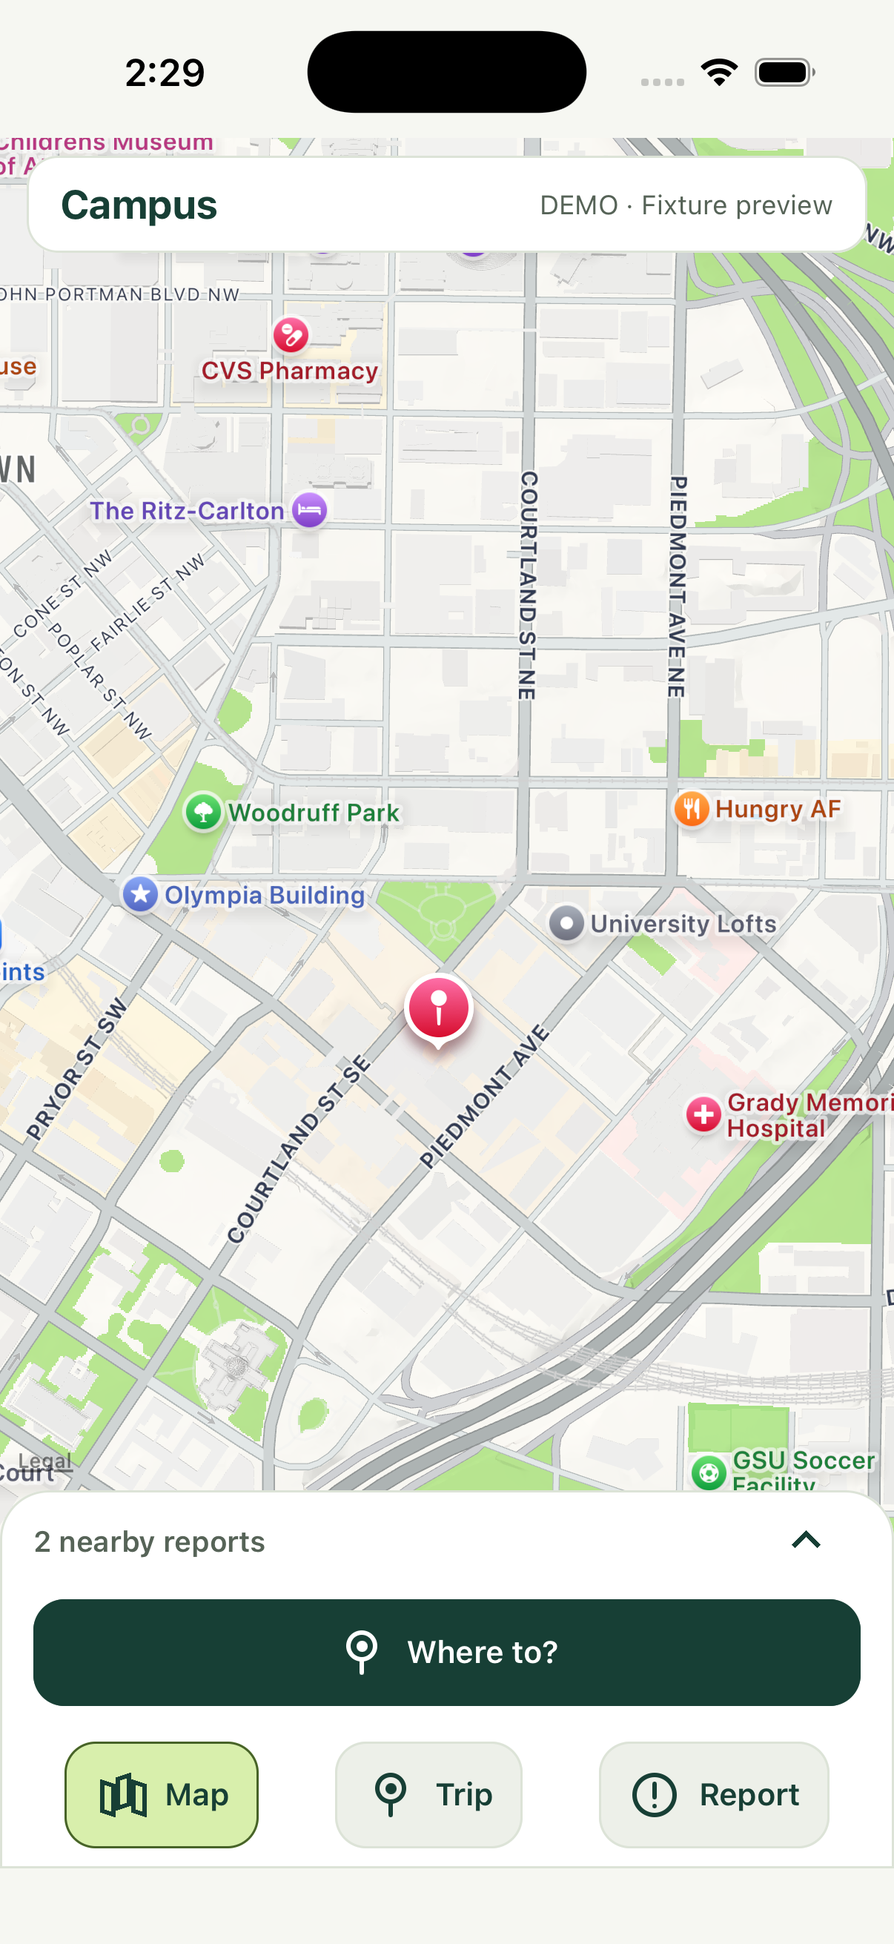
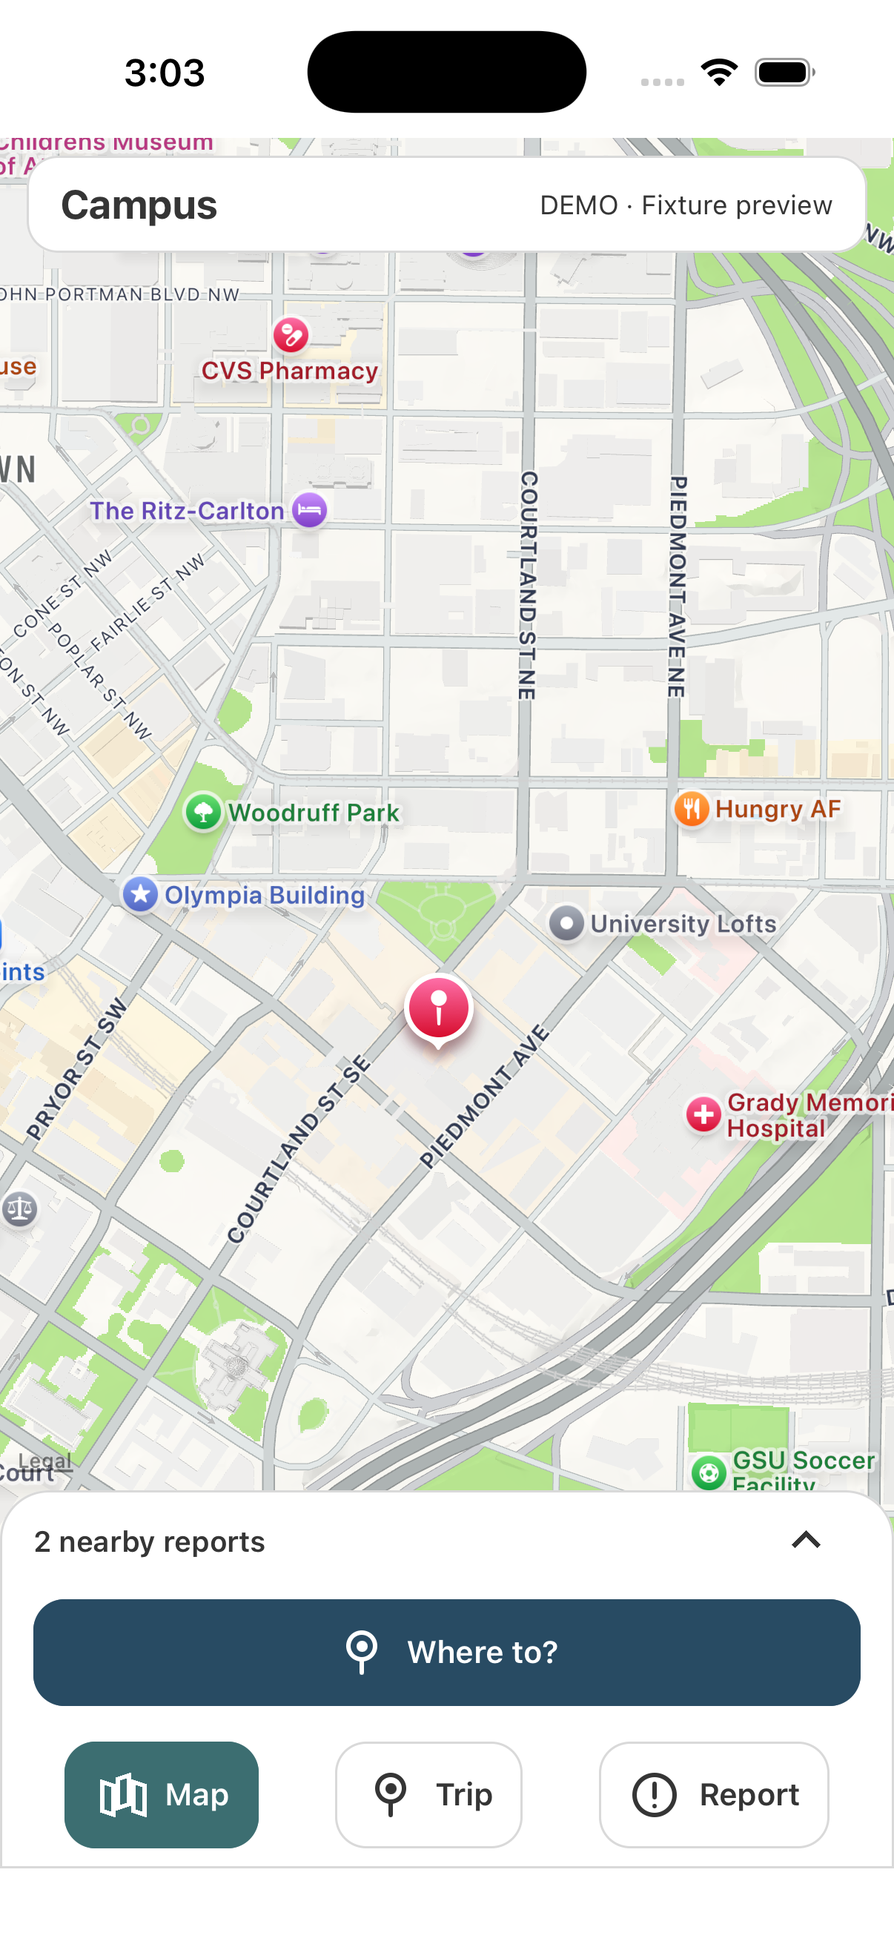
Apply silver and cyan palette with light and dark appearance

diff --git a/mobile/App.tsx b/mobile/App.tsx
@@ -1,8 +1,8 @@
 import React, { useEffect, useRef, useState } from 'react';
-import { AppState, SafeAreaView, ScrollView, View, Text, TextInput, StyleSheet, Pressable, KeyboardAvoidingView, Platform } from 'react-native';
+import { AppState, SafeAreaView, ScrollView, View, Text, TextInput, StyleSheet, Pressable, KeyboardAvoidingView, Platform, StatusBar, useColorScheme } from 'react-native';
 import { ActionButton as Button } from './src/ui/ActionButton';
 import { Icon } from './src/ui/Icon';
-import { theme } from './src/ui/theme';
+import { useTheme, type Theme } from './src/ui/theme';
 import MapView, { Marker, Polygon, Polyline, Region } from 'react-native-maps';
 import * as Crypto from 'expo-crypto';
 import AsyncStorage from '@react-native-async-storage/async-storage';
@@ -14,7 +14,7 @@ import { createReportQueue, freezeReport, Submission } from './src/reports/queue
 import { createHazardRefresh } from './src/api/hazardRefresh';
 import { apiUrl, fixtureMode, getHazards, getHealth, getRoutes, submitReport, HazardCollection, Health, Report } from './src/api/client';
 import { createRouteComparison, presentRoutes, RouteState } from './src/routes/model';
-import { ROUTE_COLORS, RouteScreen, Target } from './src/routes/RouteScreen';
+import { routeColors, RouteScreen, Target } from './src/routes/RouteScreen';
 
 const center = { latitude: 33.7531, longitude: -84.3853, latitudeDelta: 0.012, longitudeDelta: 0.012 };
 const toPoint = ([longitude, latitude]: number[]) => ({ latitude, longitude });
@@ -26,6 +26,10 @@ const bounds = (r: Region) => {
     wide ? 180 : clamp(r.longitude+r.longitudeDelta/2, 180), clamp(r.latitude+r.latitudeDelta/2, 90)].join(',');
 };
 export default function App() {
+  const colorScheme = useColorScheme();
+  const theme = useTheme();
+  const styles = createStyles(theme);
+  const ROUTE_COLORS = routeColors(theme);
   const [screen, setScreen] = useState<'map'|'report'|'route'>('map');
   const [expanded, setExpanded] = useState(false);
   const [dockHeight, setDockHeight] = useState(220);
@@ -134,8 +138,9 @@ export default function App() {
   const latestSubmission = submissions[submissions.length - 1];
   const pendingCount = submissions.filter(sub => sub.state !== 'submitted').length;
   return <SafeAreaView style={styles.page}>
+    <StatusBar barStyle={colorScheme === 'dark' ? 'light-content' : 'dark-content'} />
     <KeyboardAvoidingView style={styles.canvas} behavior={Platform.OS === 'ios' ? 'padding' : undefined}>
-    <MapView style={styles.map} initialRegion={center} legalLabelInsets={{ top: 0, left: 8, right: 8, bottom: dockHeight + 8 }} onRegionChangeComplete={changeRegion}
+    <MapView userInterfaceStyle={colorScheme === 'dark' ? 'dark' : 'light'} style={styles.map} initialRegion={center} legalLabelInsets={{ top: 0, left: 8, right: 8, bottom: dockHeight + 8 }} onRegionChangeComplete={changeRegion}
       onPress={e => { if (screen === 'report') setPin(e.nativeEvent.coordinate); else if (screen === 'route') placeRouteEndpoint(e.nativeEvent.coordinate); }}>
       {visible.map(h => <Polygon key={h.properties.id} coordinates={h.geometry.coordinates[0].map(toPoint)}
         holes={h.geometry.coordinates.slice(1).map(r => r.map(toPoint))}
@@ -147,6 +152,7 @@ export default function App() {
         pinColor="blue" title="Pending report (not yet accepted)" description={sub.body.kind} />)}
       {screen === 'report' && <Marker coordinate={pin} draggable title="Report location"
         onDragEnd={e => setPin(e.nativeEvent.coordinate)} />}
+      {colorScheme === 'dark' && screen === 'route' && presented?.lowerRisk && <Polyline coordinates={presented.lowerRisk.coordinates.map(toPoint)} strokeWidth={10} strokeColor={theme.line} />}
       {screen === 'route' && presented?.lowerRisk && <Polyline coordinates={presented.lowerRisk.coordinates.map(toPoint)} strokeWidth={6} strokeColor={ROUTE_COLORS.safest} />}
       {screen === 'route' && presented && <Polyline coordinates={presented.shortest.coordinates.map(toPoint)} strokeWidth={4} strokeColor={ROUTE_COLORS.shortest} lineDashPattern={presented.lowerRisk ? [10, 8] : undefined} />}
       {screen === 'route' && routeState.origin && <Marker coordinate={{ latitude: routeState.origin.lat, longitude: routeState.origin.lon }} pinColor="green" draggable
@@ -190,9 +196,9 @@ export default function App() {
         <View style={styles.categories}>{(['pothole','obstruction','closure','other'] as const).map(k => <Pressable key={k}
           accessibilityRole="button" accessibilityLabel={k} accessibilityState={{ selected: k === kind }} onPress={() => setKind(k)}
           style={[styles.category, k === kind && styles.categorySelected]}>
-          <Icon name={k} /><Text style={styles.categoryLabel}>{k[0].toUpperCase() + k.slice(1)}</Text>
+          <Icon name={k} color={k === kind ? theme.inverse : theme.ink} /><Text style={[styles.categoryLabel, k === kind && styles.categoryLabelSelected]}>{k[0].toUpperCase() + k.slice(1)}</Text>
         </Pressable>)}</View>
-        {expanded && <TextInput accessibilityLabel="Optional report description" style={styles.input} value={description} onChangeText={setDescription} maxLength={280} placeholder="Description (optional)" />}
+        {expanded && <TextInput accessibilityLabel="Optional report description" style={styles.input} value={description} onChangeText={setDescription} maxLength={280} placeholderTextColor={theme.muted} placeholder="Description (optional)" />}
 
         <Button primary title={submitting ? 'Saving report…' : 'Submit report'} disabled={fixtureMode || submitting} onPress={() => void send()} />
         {!expanded && latestSubmission && <Text accessibilityLiveRegion="polite" style={latestSubmission.state === 'failed' ? styles.error : styles.caption}>
@@ -200,7 +206,7 @@ export default function App() {
         </Text>}
         {expanded && submissions.map(sub => <View key={sub.id} style={styles.card}>
           <Text style={styles.heading}>{sub.body.kind} · {sub.state === 'queued' ? 'queued (pending, not accepted)' : sub.state}</Text>
-          <Text>Observed {new Date(sub.body.observed_at).toLocaleString()}{sub.attempts ? ` · attempts ${sub.attempts}` : ''}</Text>
+          <Text style={styles.caption}>Observed {new Date(sub.body.observed_at).toLocaleString()}{sub.attempts ? ` · attempts ${sub.attempts}` : ''}</Text>
           {!!sub.error && <Text style={styles.error}>{sub.error}{sub.retryable ? '' : '\nThe server rejected this report; dismiss it and submit a corrected one.'}</Text>}
           {sub.state === 'failed' && sub.retryable && <Button title="Retry original report" onPress={() => void queue.retry(sub.id)} />}
           {(sub.state === 'submitted' || (sub.state === 'failed' && !sub.retryable)) && <Button title="Dismiss" onPress={() => void queue.dismiss(sub.id)} />}
@@ -220,7 +226,7 @@ export default function App() {
     </KeyboardAvoidingView>
   </SafeAreaView>;
 }
-const styles = StyleSheet.create({
+const createStyles = (theme: Theme) => StyleSheet.create({
   page: { flex: 1, backgroundColor: theme.canvas }, canvas: { flex: 1 },
   map: { position: 'absolute', top: 0, right: 0, bottom: 0, left: 0 },
   overlay: { flex: 1, paddingTop: 8 },
@@ -242,12 +248,13 @@ const styles = StyleSheet.create({
   category: { flex: 1, alignItems: 'center', justifyContent: 'center', gap: 6, minHeight: 64, paddingVertical: 8, borderWidth: 1, borderColor: theme.line, borderRadius: theme.radius },
   categorySelected: { backgroundColor: theme.selected, borderColor: theme.selectedEdge },
   categoryLabel: { fontSize: 11, color: theme.ink, textAlign: 'center' },
+  categoryLabelSelected: { color: theme.inverse },
   content: { flexShrink: 1 }, contentInner: { paddingBottom: 8 },
   caption: { fontSize: 12, lineHeight: 18, color: theme.muted },
   source: { color: theme.selectedEdge, fontSize: 12, fontWeight: '600' },
   card: { paddingVertical: 10, borderBottomWidth: 1, borderColor: theme.line },
   heading: { fontSize: 16, fontWeight: '600', color: theme.ink, marginVertical: 4 },
-  input: { backgroundColor: theme.surface, borderWidth: 1, borderColor: theme.line, borderRadius: theme.radius,
+  input: { color: theme.ink, backgroundColor: theme.surface, borderWidth: 1, borderColor: theme.line, borderRadius: theme.radius,
     padding: 12, marginVertical: 8, minHeight: theme.touch },
   error: { color: theme.danger, marginVertical: 8 },
 });

diff --git a/mobile/src/routes/RouteScreen.tsx b/mobile/src/routes/RouteScreen.tsx
@@ -1,16 +1,18 @@
 import React from 'react';
 import { StyleSheet, Text, View } from 'react-native';
 import { ActionButton as Button } from '../ui/ActionButton';
-import { theme } from '../ui/theme';
+import { useTheme, type Theme } from '../ui/theme';
 import { canRequest, presentRoutes, type Point, type RouteLine, type RouteState } from './model';
 
 export type Target = 'origin' | 'destination';
-export const ROUTE_COLORS = { shortest: '#5f5f5f', safest: '#005f73' } as const;
+export const routeColors = (theme: Theme) => ({ shortest: theme.routeShortest, safest: theme.routeLowerRisk });
 const where = (p: Point | null) => (p ? `${p.lat.toFixed(5)}, ${p.lon.toFixed(5)}` : 'not set');
 
 function RouteCard({ line, expanded }: { line: RouteLine; expanded: boolean }) {
+  const theme = useTheme();
+  const styles = createStyles(theme);
   return <View style={styles.card} accessible accessibilityLabel={`${line.label}: ${line.duration}, ${line.distance}, ${line.hazardCount} reported hazards, ${line.risk}`}>
-    <View style={styles.legend}><View style={[styles.swatch, { backgroundColor: ROUTE_COLORS[line.kind] }]} /><Text style={styles.label}>{line.label}</Text></View>
+    <View style={styles.legend}><View style={[styles.swatch, { backgroundColor: line.kind === 'shortest' ? theme.routeShortest : theme.routeLowerRisk }]} /><Text style={styles.label}>{line.label}</Text></View>
     <Text style={styles.metrics}>{line.duration}</Text>
     <Text style={styles.fine}>{line.distance} · {line.hazardCount} reports</Text>
     {expanded && <Text style={styles.fine}>{line.risk}</Text>}
@@ -22,6 +24,8 @@ export function RouteScreen(props: {
   onTarget(target: Target): void; onUseLocation(): void; onCompare(): void;
   onSwap(): void; onClear(): void;
 }) {
+  const theme = useTheme();
+  const styles = createStyles(theme);
   const { state, target, expanded } = props;
   const presented = state.result ? presentRoutes(state.result) : null;
   const ready = canRequest(state);
@@ -65,7 +69,7 @@ export function RouteScreen(props: {
   </>;
 }
 
-const styles = StyleSheet.create({
+const createStyles = (theme: Theme) => StyleSheet.create({
   row: { flexDirection: 'row', flexWrap: 'wrap', gap: 8, justifyContent: 'space-between' },
   card: { flex: 1, minWidth: 120, padding: 10, borderRadius: theme.radius, borderWidth: 1, borderColor: theme.line, marginVertical: 4 },
   legend: { flexDirection: 'row', alignItems: 'center', gap: 5 },

diff --git a/mobile/src/ui/ActionButton.tsx b/mobile/src/ui/ActionButton.tsx
@@ -1,7 +1,7 @@
 import React from 'react';
 import { Pressable, StyleSheet, Text } from 'react-native';
 import { Icon, IconName } from './Icon';
-import { theme } from './theme';
+import { useTheme, type Theme } from './theme';
 
 /** Shared concept control; uses native primitives and adds no runtime dependency. */
 export function ActionButton({ title, onPress, disabled = false, primary = false, selected = false, icon }: {
@@ -12,19 +12,21 @@ export function ActionButton({ title, onPress, disabled = false, primary = false
   selected?: boolean;
   icon?: IconName;
 }) {
+  const theme = useTheme();
+  const styles = createStyles(theme);
   return <Pressable accessibilityRole="button" accessibilityLabel={title}
     accessibilityState={{ disabled, selected }} disabled={disabled} onPress={onPress}
     style={({ pressed }) => [styles.button, primary && styles.primary,
       selected && styles.selected, disabled && styles.disabled, pressed && styles.pressed]}>
-    {icon && <Icon name={icon} color={primary ? theme.inverse : theme.ink} />}
-    <Text style={[styles.label, primary && styles.primaryLabel]}>{title}</Text>
+    {icon && <Icon name={icon} color={primary || selected ? theme.inverse : theme.ink} />}
+    <Text style={[styles.label, (primary || selected) && styles.primaryLabel]}>{title}</Text>
   </Pressable>;
 }
 
-const styles = StyleSheet.create({
+const createStyles = (theme: Theme) => StyleSheet.create({
   button: { minHeight: theme.touch, flexDirection: 'row', gap: 8, justifyContent: 'center', alignItems: 'center', paddingHorizontal: 12,
     paddingVertical: 10, borderRadius: theme.radius, backgroundColor: theme.quiet, marginVertical: 4, flexShrink: 1, borderWidth: 1, borderColor: theme.line },
-  primary: { backgroundColor: theme.primary, borderColor: theme.primary },
+  primary: { backgroundColor: theme.primary, borderColor: theme.primaryEdge },
   selected: { backgroundColor: theme.selected, borderColor: theme.selectedEdge },
   label: { color: theme.ink, fontSize: 14, fontWeight: '600', textAlign: 'center' },
   primaryLabel: { color: theme.inverse },

diff --git a/mobile/src/ui/theme.ts b/mobile/src/ui/theme.ts
@@ -1,7 +1,27 @@
-/** Mobile roles; the web reference supplies principles, not its palette or density. */
-export const theme = {
-  ink: '#173f35', muted: '#566357', surface: '#ffffff', canvas: '#f6f7f2',
-  quiet: '#edf0e9', line: '#dce3d7', selected: '#d8efac', selectedEdge: '#476328',
-  primary: '#173f35', inverse: '#ffffff', warning: '#765000', danger: '#a00020',
-  radius: 14, touch: 48,
+import { useColorScheme } from 'react-native';
+
+/** Operator palette: coolors.co/palette/353535-3c6e71-ffffff-d9d9d9-284b63 */
+export const palette = {
+  charcoal: '#353535', cyan: '#3c6e71', white: '#ffffff', silver: '#d9d9d9', blue: '#284b63',
 } as const;
+
+const light = {
+  ink: palette.charcoal as string, muted: palette.charcoal as string,
+  surface: palette.white as string, canvas: palette.white as string,
+  quiet: palette.white as string, line: palette.silver as string,
+  selected: palette.cyan as string, selectedEdge: palette.cyan as string,
+  primary: palette.blue as string, primaryEdge: palette.blue as string,
+  inverse: palette.white as string, warning: palette.blue as string, danger: '#a00020',
+  routeShortest: palette.charcoal as string, routeLowerRisk: palette.cyan as string,
+  radius: 14, touch: 48,
+};
+export type Theme = typeof light;
+const dark: Theme = {
+  ...light, ink: palette.white, muted: palette.silver, surface: palette.charcoal,
+  canvas: palette.charcoal, quiet: palette.charcoal, line: palette.silver,
+  selectedEdge: palette.silver, primaryEdge: palette.silver,
+  warning: palette.silver, danger: '#ffb4ab', routeShortest: palette.silver,
+};
+export function useTheme(): Theme {
+  return useColorScheme() === 'dark' ? dark : light;
+}

diff --git a/mobile/src/ui/Icon.tsx b/mobile/src/ui/Icon.tsx
@@ -1,11 +1,13 @@
 import React from 'react';
 import { View } from 'react-native';
-import { theme } from './theme';
+import { useTheme } from './theme';
 
 export type IconName = 'map' | 'route' | 'report' | 'pin' | 'expand' | 'collapse' | 'locate' | 'pothole' | 'obstruction' | 'closure' | 'other';
 
 /** One native, dependency-free icon dialect. Labels belong to the containing control. */
-export function Icon({ name, color = theme.ink }: { name: IconName; color?: string }) {
+export function Icon({ name, color: suppliedColor }: { name: IconName; color?: string }) {
+  const theme = useTheme();
+  const color = suppliedColor ?? theme.ink;
   const line = { position: 'absolute' as const, backgroundColor: color, borderRadius: 1 };
   const ring = { position: 'absolute' as const, borderColor: color, borderWidth: 2 };
   return <View accessible={false} importantForAccessibility="no-hide-descendants" style={{ width: 24, height: 24 }}>

diff --git a/mobile/docs/UI-GUIDE.md b/mobile/docs/UI-GUIDE.md
@@ -18,8 +18,8 @@ in expanded details; fixture warnings, failures and delivery states remain expli
 
 ## Shared primitives
 
-- `src/ui/theme.ts` owns mobile color roles and shared geometry. Preserve the app's green
-  identity; do not import the web reference's colors or theme.
+- `src/ui/theme.ts` owns the operator's silver/cyan-blue palette, light/dark roles and shared
+  geometry. Do not import the web reference's colors or theme.
 - `src/ui/Icon.tsx` owns the dependency-free native pictograms. Map means explore, pin means
   endpoint/trip, circled exclamation means report, chevrons mean expand/collapse, and a
   crosshair means foreground location. Hazard categories have their own labeled pictograms.
@@ -29,6 +29,27 @@ in expanded details; fixture warnings, failures and delivery states remain expli
   and expanded state. Decorative geometry is hidden from accessibility.
 - Ordinary controls have at least 48-point height. The disclosure target is 48 by 44 points.
   Do not copy the web guide's 24-point targets or 8–11px body typography.
+
+## Light and dark color roles
+
+Source: [selected Coolors palette](https://coolors.co/palette/353535-3c6e71-ffffff-d9d9d9-284b63).
+See [decision 012](../../docs/decisions/012-silver-cyan-mobile-palette.md).
+
+| Color | Role |
+| --- | --- |
+| `#353535` charcoal | Light-mode text; dark-mode surfaces |
+| `#3c6e71` teal/cyan | Selected controls and lower-risk route accent |
+| `#ffffff` white | Light surfaces; selected/primary and dark-mode foreground |
+| `#d9d9d9` metallic silver | Dividers, dark-mode outlines and secondary foreground |
+| `#284b63` deep blue | Primary action and light-mode notices |
+
+Device appearance selects light or dark UI. Silver is flat and restrained; no metallic texture
+or gradient is required. Selected controls retain accessible selected state and short labels.
+White on cyan is 5.74:1; white on blue 9.22:1; charcoal on white 12.27:1; silver on charcoal
+8.69:1. These are computed solid-color text pairs, not a full accessibility certification.
+Error foregrounds remain red exceptions (`#a00020` light / `#ffb4ab` dark). Existing hazard
+source colors stay separate from brand accents. Dark route lines use silver for the baseline
+and a silver casing behind cyan to preserve visibility; OSM styling remains separate work.
 
 ## State vocabulary
 

diff --git a/mobile/docs/screenshots/README.md b/mobile/docs/screenshots/README.md
@@ -1,19 +1,23 @@
 # UI concept screenshots
 
-Captured 2026-10-10 from the actual React Native app on iPhone 17 Pro / iOS 26.1 Simulator,
-Expo Go 57.0.9, SDK 57. The images show the map-first revision on `lane/a-ui`.
-They are unedited simulator captures, in offline fixture mode. The existing Apple map remains
-until the separate OSM migration lands; the route lines are explicitly illustrative.
+Captured 2026-10-10 from the actual React Native app on iPhone 17 / iOS 26.1 Simulator,
+Expo Go 57.0.9, SDK 57. These unedited captures show the silver/cyan palette in offline fixture mode.
+The existing Apple map remains until the separate OSM migration lands.
 
-| Map home | Trip setup |
+| Light Map | Dark Map |
 | --- | --- |
-| ![Map home](ui-explore.png) | ![Trip setup](ui-plan-trip.png) |
+| ![Light Map](ui-explore.png) | ![Dark Map](ui-map-dark.png) |
 
-| Route comparison | Report categories |
+| Light Report | Dark Report |
 | --- | --- |
-| ![Fixture route comparison](ui-comparison.png) | ![Report categories](ui-report.png) |
+| ![Light Report](ui-report.png) | ![Dark Report](ui-report-dark.png) |
 
-Checked by interaction: destination/start placement, comparison, task switching with trip
-preserved, expanded/collapsed details, clearing endpoints, and disabled reporting in demo mode.
-The screenshot session is not physical-device, Android, live-backend or complete accessibility
-validation. See the [mobile UI guide](../UI-GUIDE.md) for remaining checks.
+`ui-plan-trip.png` and `ui-comparison.png` retain the previous iPhone 17 Pro concept captures;
+their green controls predate the current palette and are retained only as interaction references.
+Route lines in those fixture screenshots are illustrative.
+
+Checked by interaction in the concept: destination/start placement, comparison, task switching
+with trip preserved, expanded/collapsed details, clearing endpoints, and disabled reporting in demo mode.
+The palette pass checked light/dark Map and Report surfaces. Updated route colors typecheck but
+still need a refreshed route screenshot. This is not physical-device, Android, live-backend or
+complete accessibility validation. See the [mobile UI guide](../UI-GUIDE.md) for remaining checks.

diff --git a/docs/decisions/012-silver-cyan-mobile-palette.md b/docs/decisions/012-silver-cyan-mobile-palette.md
@@ -1,0 +1,26 @@
+# 012. Silver and cyan-blue accents across light and dark appearance
+
+- Status: Accepted
+- Date: 2026-10-10
+
+## Decision
+
+Use the [operator-selected palette](https://coolors.co/palette/353535-3c6e71-ffffff-d9d9d9-284b63):
+charcoal `#353535`, teal/cyan `#3c6e71`, white `#ffffff`, metallic silver `#d9d9d9`,
+and deep blue `#284b63`. Silver establishes quiet boundaries; cyan-blue marks selection;
+deep blue marks the primary action. White and charcoal surfaces follow device appearance.
+Metallic silver is a color role, not a requirement for gradients or decorative depth.
+
+Preserve text/icon state cues and mobile touch targets. White foreground on cyan and blue
+has calculated contrast of 5.74:1 and 9.22:1 respectively. Error reds remain semantic exceptions,
+with a lighter error foreground in dark mode. Existing hazard-source colors remain pending
+the separate OSM map integration; they are evidence encodings, not brand accents.
+
+The UI follows system appearance without adding an unwired in-app toggle. The current native
+map receives the corresponding appearance hint; final OSM light/dark style assets remain
+the map workstream's responsibility.
+
+## Supersedes
+
+The initial forest-green/pale-lime visual treatment in the UI concept and mobile guide.
+Decisions 010 and 011's trip-first, map-first and visual-first principles remain unchanged.

diff --git a/docs/UI-INSPIRATION.md b/docs/UI-INSPIRATION.md
@@ -210,7 +210,9 @@ suitability or bicycle-specific travel times.
 Visual hypotheses: a quiet basemap, prominent paths and route geometry, large labeled controls,
 and an energetic accent for the main action. Reserve hazard colors and source/evidence badges
 for their meaning. Avoid filling the resting screen with warning colors or a long report feed.
-Exact palette, typography, icons and panel behavior remain open for visual exploration.
+The operator selected silver/cyan-blue accents with white and charcoal surfaces; see
+[decision 012](decisions/012-silver-cyan-mobile-palette.md). Typography and panel details remain
+open for refinement.
 
 | Surface | Proposed hierarchy | States the design must include |
 | --- | --- | --- |

diff --git a/mobile/README.md b/mobile/README.md
@@ -6,6 +6,7 @@ The `lane/a-ui` concept uses a full map canvas with a compact header, an expanda
 panel and Map / Trip / Report controls. “Where to?” opens destination-pin placement;
 select Set start or expand details for foreground location. Expanding reveals additional
 controls and evidence; changing tasks collapses the panel while preserving trip/draft state.
+Controls follow system light/dark appearance with silver and cyan-blue accents.
 The shared icon and control system is described in the [mobile UI guide](docs/UI-GUIDE.md).
 
 Run `npm start --prefix mobile` for the labeled fixture preview, or set
